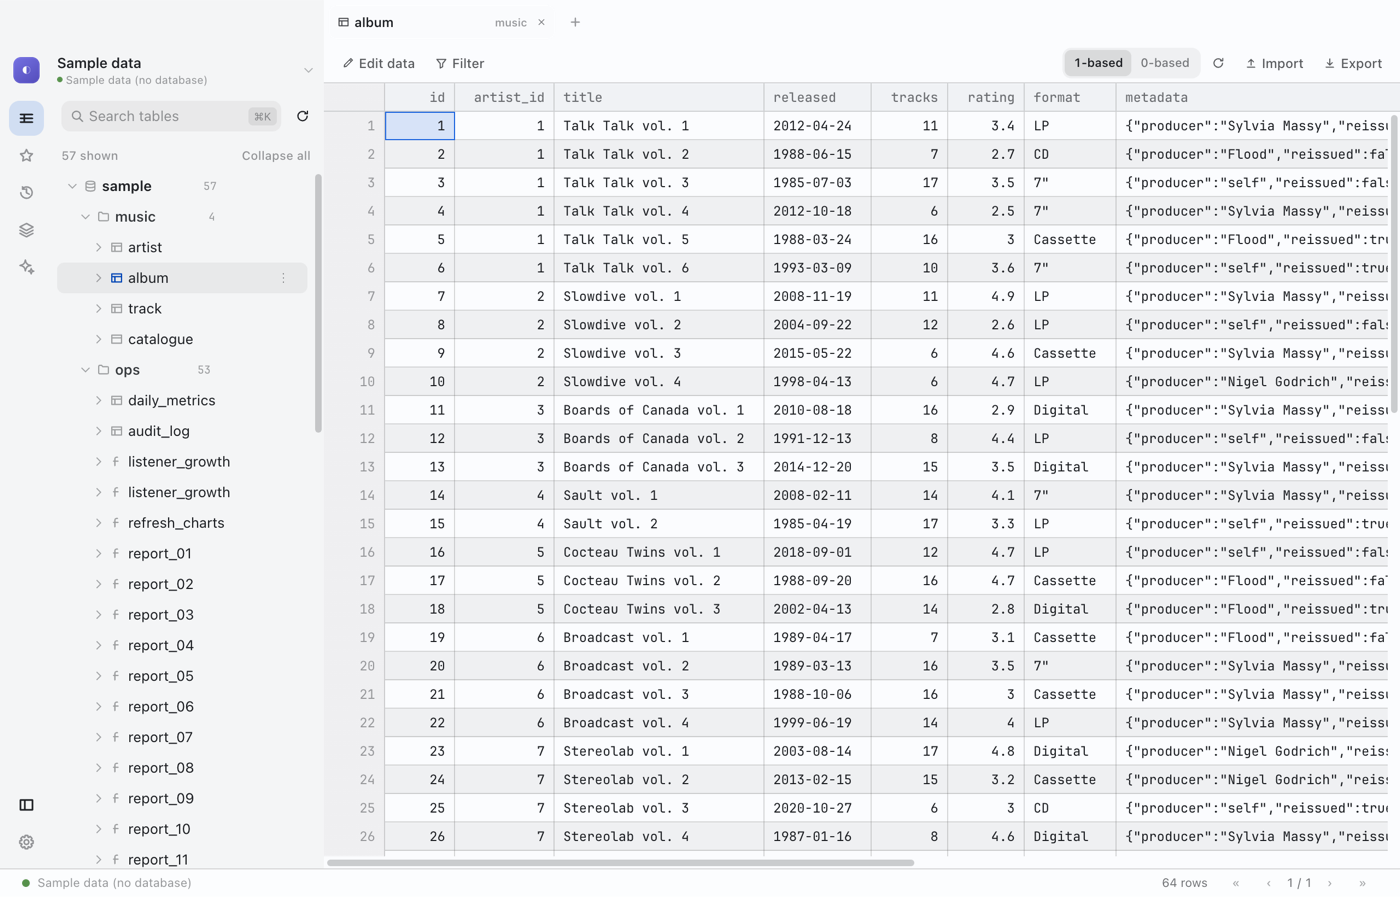
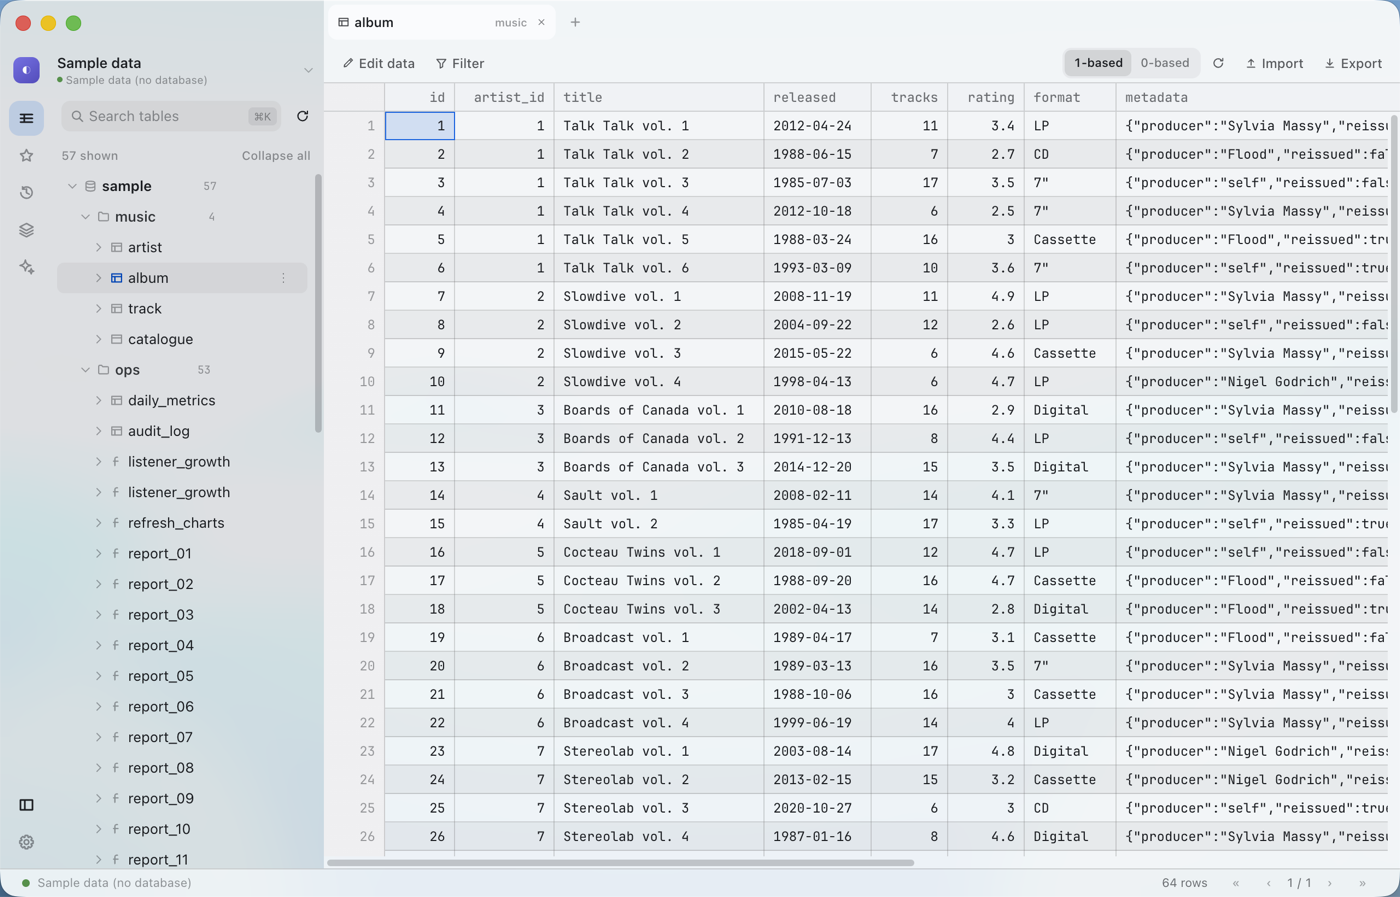
docs(readme): let the screenshots do the talking
The Design section explained how the window was built — the palette
derived in OKLCH, why menus are opaque, springs rather than keyframes.
That is a good account of the reasoning and the wrong thing to hand
somebody deciding whether to download a database client. It is also the
one part of a README a picture does better than any paragraph.

So it is three screenshots of the real window instead: the grid, the
diagram, and the start screen in the dark theme, each with its traffic
lights and the desktop showing through the rail and the sidebar. What
is left in prose is the part a picture cannot carry — that there is a
dark theme, an accent you pick, three densities, five languages, and
that the accessibility preferences are honoured.

The slogan goes here too, for the same reason it went from the start
screen.

Claude-Session: https://claude.ai/code/session_01BJQfPY8bhciixN8jcVU8qj

diff --git a/README.md b/README.md
@@ -9,10 +9,6 @@
 </p>
 
 <p align="center">
-  Nine engines. Every feature. No account.
-</p>
-
-<p align="center">
   <img src="https://img.shields.io/badge/version-1.0.0-4C6EF5" alt="Version 1.0.0" />
   <img src="https://img.shields.io/badge/licence-MIT-3BA55D" alt="MIT licence" />
   <img src="https://img.shields.io/badge/macOS%20%C2%B7%20Windows%20%C2%B7%20Linux-2F3136" alt="Platforms" />
@@ -139,30 +135,20 @@ the window.
 
 ---
 
-## Design
+## What it looks like
+
+<p align="center">
+  <img src="docs/diagram.png" alt="The entity-relationship diagram of the sample database" width="900" />
+</p>
 
 <p align="center">
   <img src="docs/start-dark.png" alt="The start screen in the dark theme" width="900" />
 </p>
 
-- **One accent colour drives everything.** Pick a colour and the whole palette
-  is derived from it — including a faint tint carried through the neutral
-  surfaces, which is what makes a new accent feel like a new theme rather than a
-  repainted button. Any accent stays readable: the derivation walks the
-  lightness until it clears the contrast it needs.
-- **The window is the material.** Real vibrancy on macOS and acrylic on Windows,
-  with the rail, the sidebar and the working pane at three different depths over
-  it, and one dial that thins them together.
-- **Three density modes,** so you can fit more on screen without anything
-  drifting out of proportion.
-- **Springs, not keyframes.** Anything you can grab tracks the pointer one to
-  one, resists at its limits, and carries your release velocity into the
-  animation that follows.
-- **Five languages** — English, 日本語, 简体中文, 한국어 and Tiếng Việt, following
-  the system locale or set explicitly. Engine-specific words — *collection*,
-  *keyspace*, *item* — are translated too.
-- `prefers-reduced-motion`, `prefers-reduced-transparency` and
-  `prefers-contrast` are all honoured.
+Light and dark, an accent colour you pick, and three density settings for how
+much fits on screen. English, 日本語, 简体中文, 한국어 and Tiếng Việt, following the
+system locale or set explicitly. `prefers-reduced-motion`,
+`prefers-reduced-transparency` and `prefers-contrast` are all honoured.
 
 ---
 
